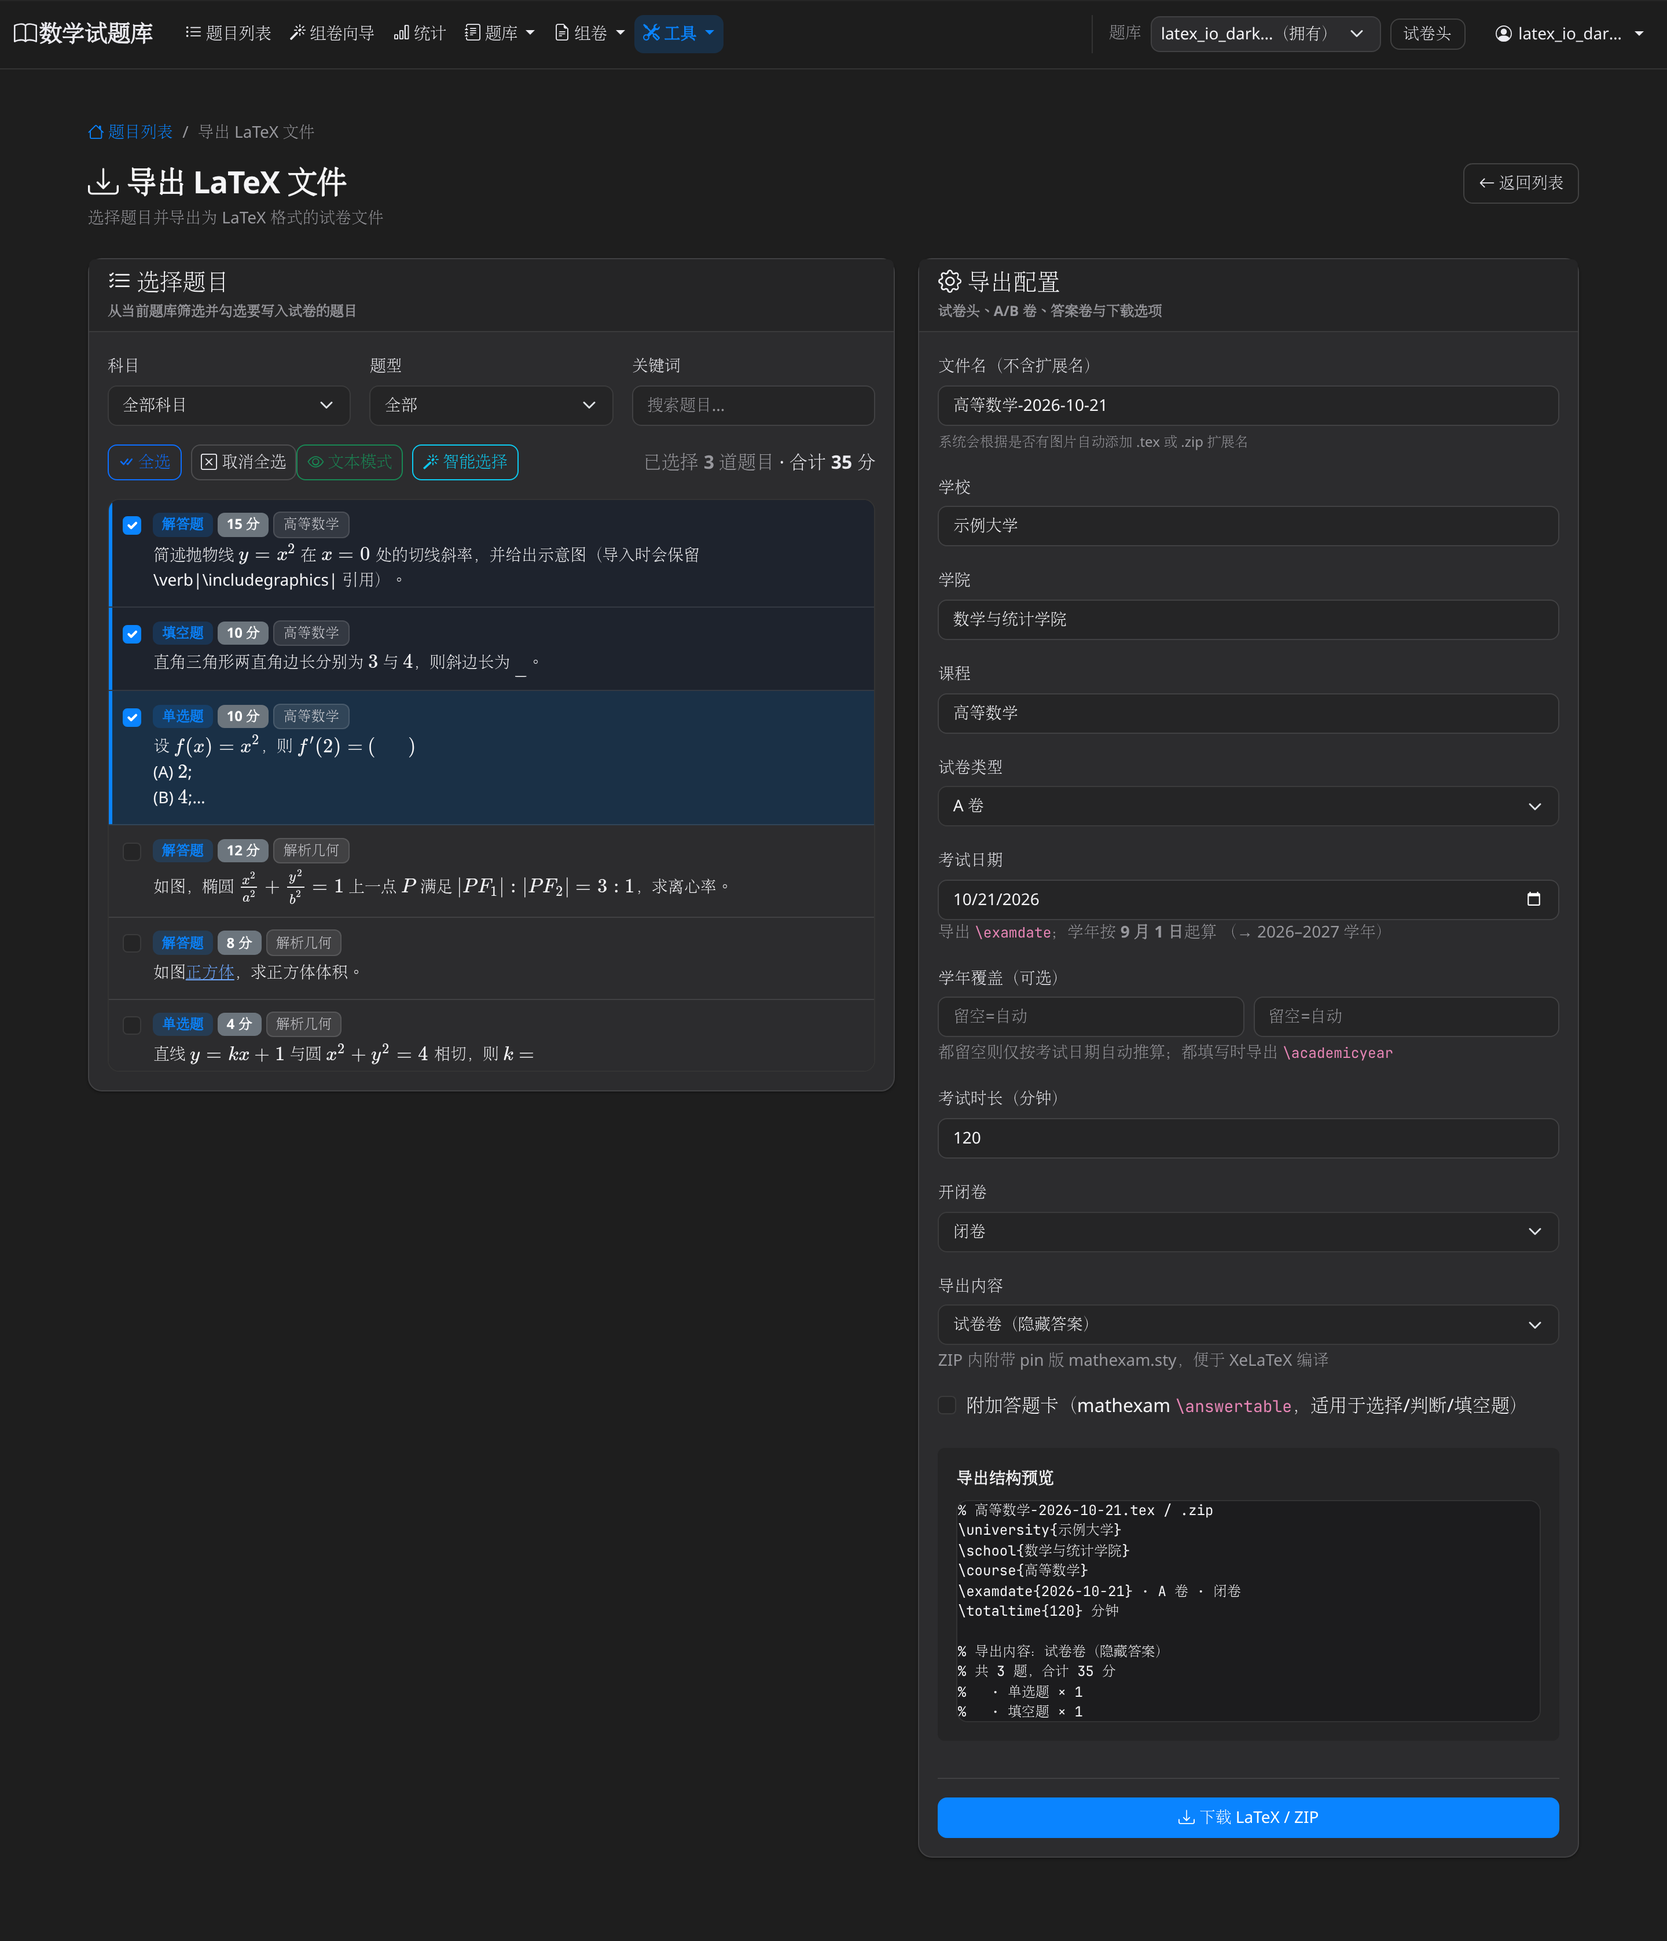
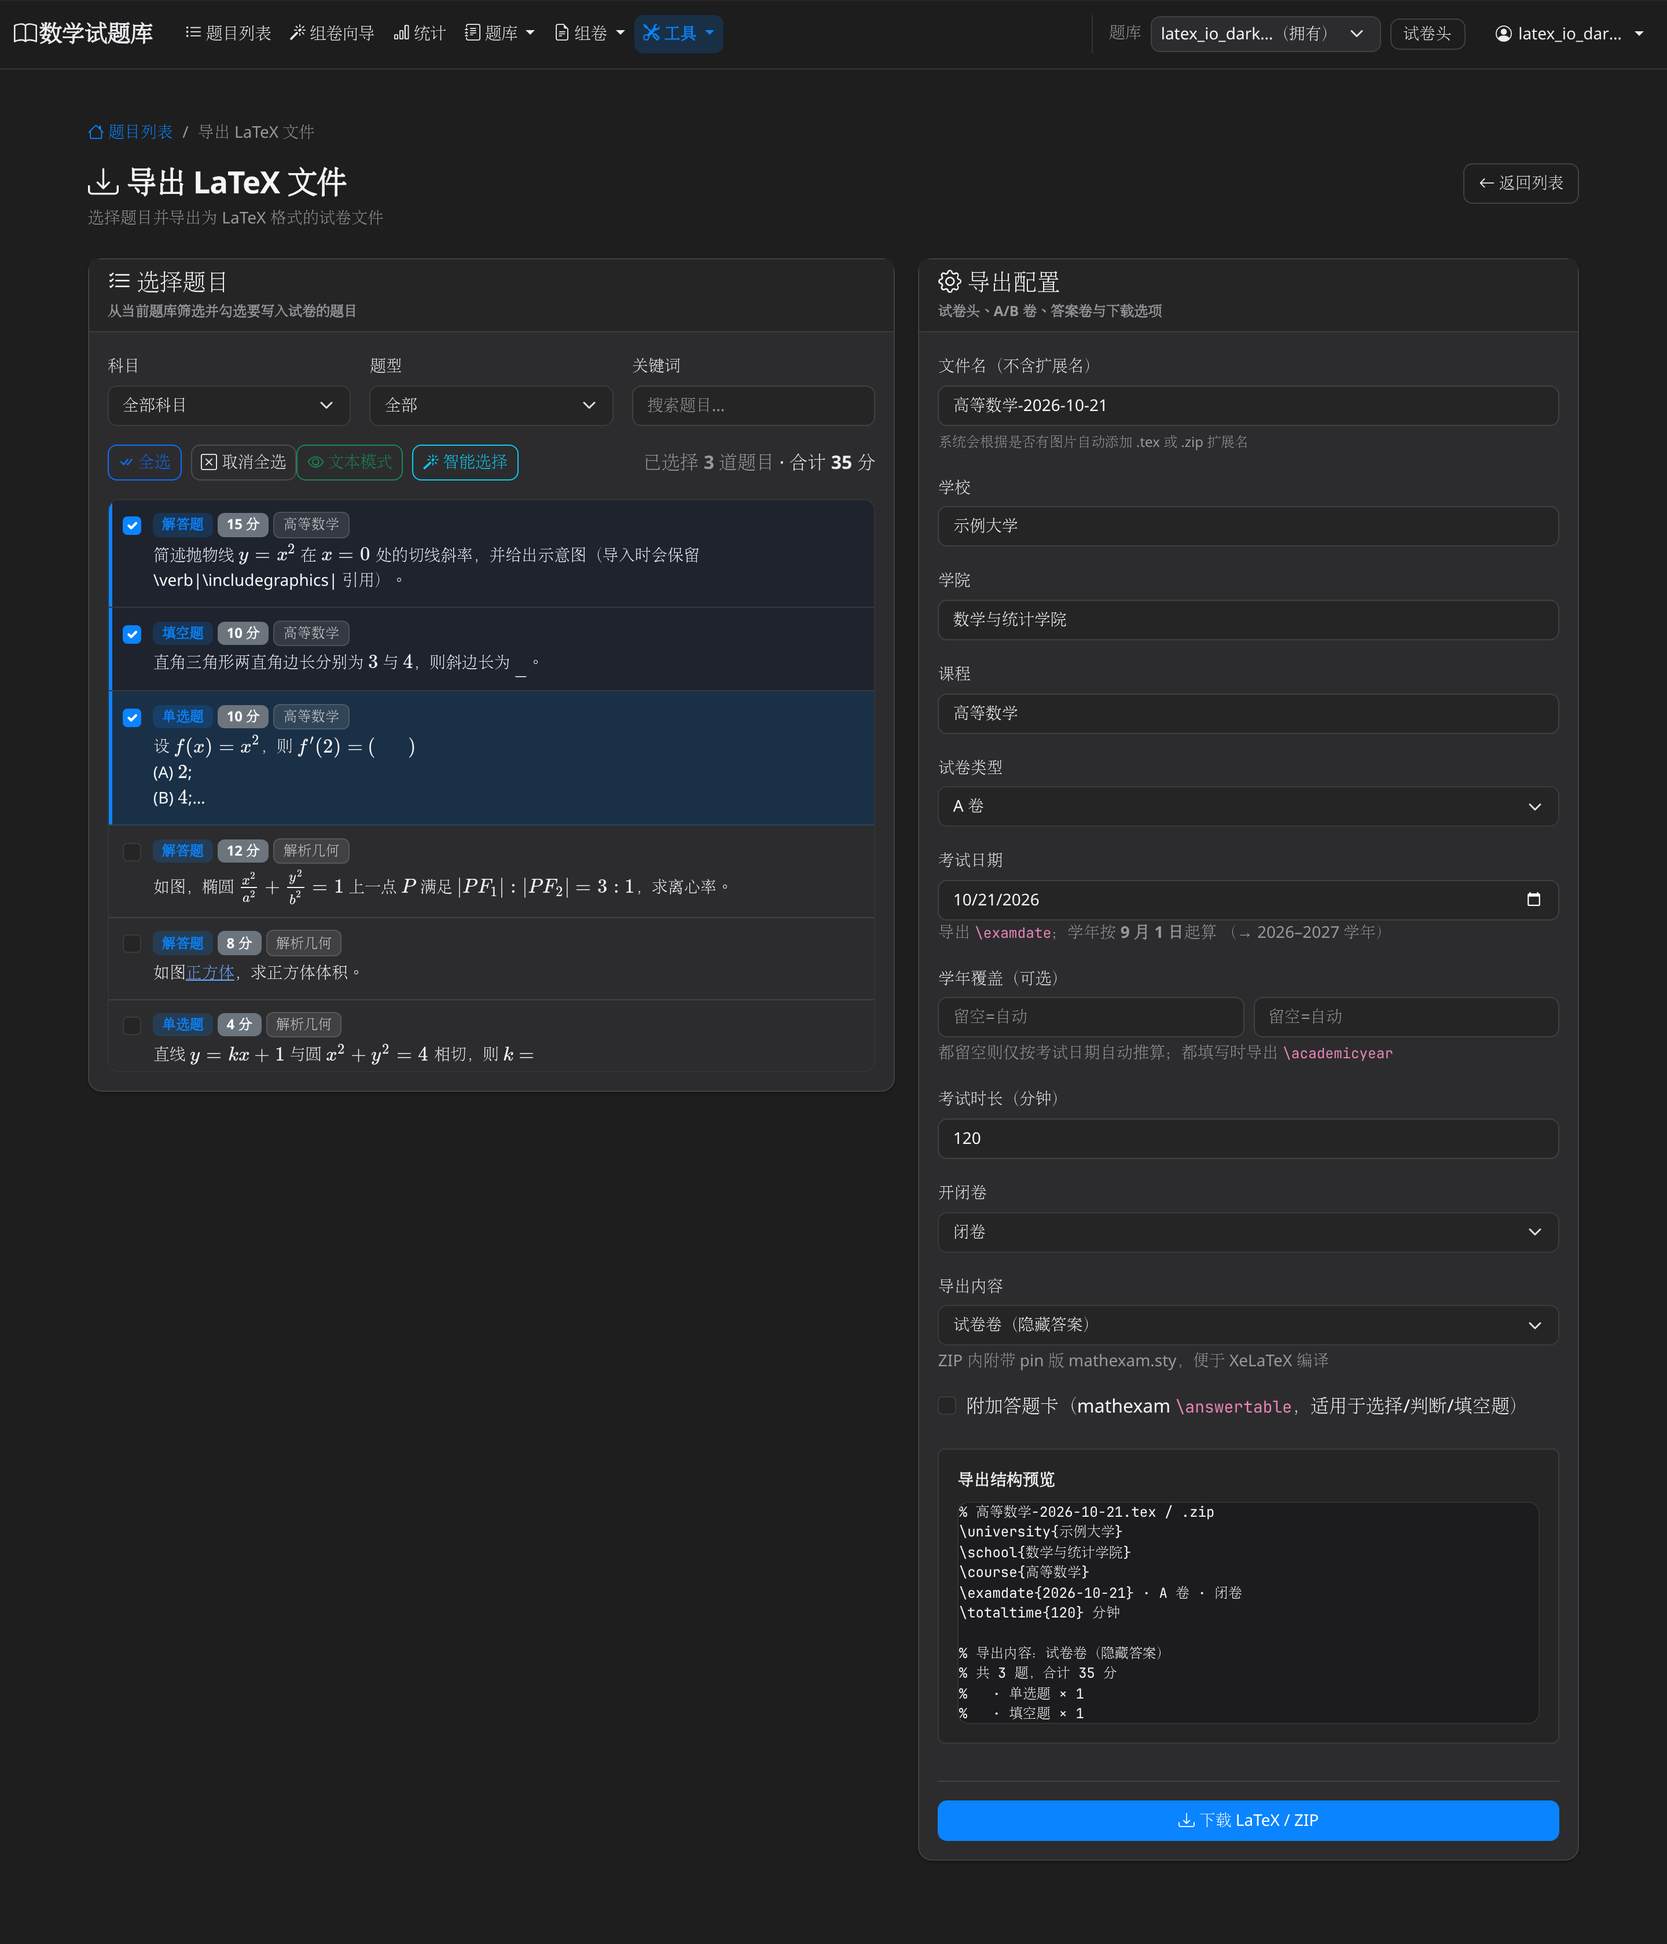
fix(ui): LaTeX import preview contrast, action bar layout, step states
Use preview-surface and callout tokens for import preview bodies; move
action bar below preview/result so it no longer covers options. Add step
checkmarks, latex-io-contrast e2e, and regenerate after screenshots.

diff --git a/frontend/src/components/LatexImport.vue b/frontend/src/components/LatexImport.vue
@@ -31,7 +31,7 @@
       <div class="row">
         <div class="col-lg-8 mx-auto">
           <div class="card latex-io-card">
-            <div class="card-body">
+            <div class="card-body latex-io-card-body">
               <div v-if="formError" class="alert alert-danger" role="alert" data-testid="latex-import-form-error">
                 {{ formError }}
               </div>
@@ -165,50 +165,6 @@
                     </div>
                   </div>
                 </details>
-              </div>
-
-              <!-- 操作按钮 -->
-              <div v-show="importFlowStep <= 2" class="latex-io-action-bar" data-testid="latex-import-action-bar">
-                <button
-                  type="button"
-                  class="btn btn-info"
-                  @click="previewFile"
-                  :disabled="!selectedTexFiles.length || previewing || importing"
-                >
-                  <span v-if="previewing" class="spinner-border spinner-border-sm me-2"></span>
-                  <i v-else class="bi bi-eye"></i>
-                  {{ previewing ? '预览中...' : '预览题目' }}
-                </button>
-                <button
-                  type="button"
-                  class="btn btn-primary"
-                  @click="importFile"
-                  :disabled="!selectedTexFiles.length || importing || previewing"
-                  v-if="!previewData"
-                >
-                  <span v-if="importing" class="spinner-border spinner-border-sm me-2"></span>
-                  <i v-else class="bi bi-upload"></i>
-                  {{ importing ? '导入中...' : '直接导入' }}
-                </button>
-                <button
-                  v-if="previewData"
-                  type="button"
-                  class="btn btn-success"
-                  @click="confirmImport"
-                  :disabled="importing || !(previewData?.partialImportAllowed || previewData?.success)"
-                >
-                  <span v-if="importing" class="spinner-border spinner-border-sm me-2"></span>
-                  <i v-else class="bi bi-check-circle"></i>
-                  {{ importing ? '导入中...' : '确认导入' }}
-                </button>
-                <button
-                  type="button"
-                  class="btn btn-outline-secondary"
-                  @click="resetForm"
-                  :disabled="importing || previewing"
-                >
-                  <i class="bi bi-arrow-clockwise"></i> 重置
-                </button>
               </div>
 
               <!-- 预览区域 -->
@@ -359,7 +315,8 @@
                         <div v-if="previewMode" class="question-preview-content mathexam-preview">
                           <div 
                             v-html="processQuestionTextToHTML(question.questionText, question.originalLaTeX, questionPreviewOpts(question))"
-                            class="question-text-content mb-2 mathexam-question-body"
+                            class="question-text-content preview-surface mathexam-question-body mb-2"
+                            data-testid="latex-import-preview-question-body"
                           ></div>
                           <!-- 选项（如果是选择题） -->
                           <div v-if="question.options && Object.keys(question.options).length > 0 && !hasAbcdInOriginal(question)" class="question-options mb-2">
@@ -370,11 +327,18 @@
                             </ChoiceOptionsList>
                           </div>
                           <!-- 答案 -->
-                          <div class="question-answer mb-0" v-if="showAnswerBlock(question)">
+                          <div
+                            class="question-answer mathexam-callout-answer mb-0 mt-2"
+                            v-if="showAnswerBlock(question)"
+                            data-testid="latex-import-preview-answer"
+                          >
                             <strong>答案：</strong>
                             <div v-html="processAnswerTextToHTML(answerForDisplay(question))"></div>
                           </div>
-                          <div v-if="showSolutionBlock(question)" class="question-solution mb-0 mt-2">
+                          <div
+                            v-if="showSolutionBlock(question)"
+                            class="question-solution mathexam-callout-solution mb-0 mt-2"
+                          >
                             <strong>解答：</strong>
                             <div v-html="processAnswerTextToHTML(question.solution)"></div>
                           </div>
@@ -585,6 +549,49 @@
                     </button>
                   </div>
                 </div>
+              </div>
+
+              <div v-show="importFlowStep <= 2" class="latex-io-action-bar" data-testid="latex-import-action-bar">
+                <button
+                  type="button"
+                  class="btn btn-info"
+                  @click="previewFile"
+                  :disabled="!selectedTexFiles.length || previewing || importing"
+                >
+                  <span v-if="previewing" class="spinner-border spinner-border-sm me-2"></span>
+                  <i v-else class="bi bi-eye"></i>
+                  {{ previewing ? '预览中...' : '预览题目' }}
+                </button>
+                <button
+                  type="button"
+                  class="btn btn-primary"
+                  @click="importFile"
+                  :disabled="!selectedTexFiles.length || importing || previewing"
+                  v-if="!previewData"
+                >
+                  <span v-if="importing" class="spinner-border spinner-border-sm me-2"></span>
+                  <i v-else class="bi bi-upload"></i>
+                  {{ importing ? '导入中...' : '直接导入' }}
+                </button>
+                <button
+                  v-if="previewData"
+                  type="button"
+                  class="btn btn-success"
+                  @click="confirmImport"
+                  :disabled="importing || !(previewData?.partialImportAllowed || previewData?.success)"
+                >
+                  <span v-if="importing" class="spinner-border spinner-border-sm me-2"></span>
+                  <i v-else class="bi bi-check-circle"></i>
+                  {{ importing ? '导入中...' : '确认导入' }}
+                </button>
+                <button
+                  type="button"
+                  class="btn btn-outline-secondary"
+                  @click="resetForm"
+                  :disabled="importing || previewing"
+                >
+                  <i class="bi bi-arrow-clockwise"></i> 重置
+                </button>
               </div>
             </div>
           </div>
@@ -1208,11 +1215,9 @@ export default {
   vertical-align: baseline;
 }
 
-.preview-area .question-text-content {
+.preview-area .mathexam-question-body.preview-surface {
   padding: 0.75rem 1rem;
-  background: #fafbff;
-  border-radius: 8px;
-  border: 1px solid #e8ecf4;
+  border-radius: var(--radius-md);
 }
 </style>
 

diff --git a/e2e/tests/latex-io-contrast.spec.js b/e2e/tests/latex-io-contrast.spec.js
@@ -1,0 +1,62 @@
+/**
+ * Dark-mode contrast on LaTeX import preview + export list (runs in CI e2e-smoke).
+ */
+const { test, expect } = require('@playwright/test');
+const path = require('path');
+const fs = require('fs');
+const { assertMinContrastIn } = require('../helpers/contrastAssert');
+const { registerAndLoginSession, appOrigin } = require('../helpers/screenshotAuth');
+const { seedViaPageRequest } = require('../helpers/seedUiV2ScreenshotRequest');
+
+const mathexamTemplateZip = path.join(
+  __dirname,
+  '../../frontend/public/downloads/mathexam-v2.3.3.zip',
+);
+const apiBase = process.env.PLAYWRIGHT_API_URL || 'http://127.0.0.1:3000/api';
+
+test.describe('LaTeX IO dark contrast', () => {
+  test.use({ colorScheme: 'dark' });
+
+  test.beforeEach(async ({ page }) => {
+    await page.addInitScript(() => localStorage.setItem('mathexamColorScheme', 'dark'));
+  });
+
+  test('import preview question body and export rows meet contrast', async ({ page }) => {
+    test.setTimeout(360000);
+    page.on('dialog', (d) => d.accept());
+
+    const uid = `lio_contrast_${Date.now()}`;
+    const session = await registerAndLoginSession(page, {
+      uid,
+      password: 'E2EPass123!',
+      email: `${uid}@example.com`,
+    });
+    const bankId = session.bankId;
+    await seedViaPageRequest(page, bankId);
+
+    await page.goto(`${appOrigin}/latex-import`, { waitUntil: 'domcontentloaded' });
+    expect(fs.existsSync(mathexamTemplateZip)).toBeTruthy();
+    await page.locator('#fileInput').setInputFiles(mathexamTemplateZip);
+    await page.getByRole('button', { name: '预览题目' }).click({ timeout: 120000 });
+    await expect(page.getByTestId('latex-import-preview-panel')).toBeVisible({ timeout: 180000 });
+
+    const body = page.getByTestId('latex-import-preview-question-body').first();
+    await expect(body).toBeVisible();
+    await assertMinContrastIn(page, '[data-testid="latex-import-preview-question-body"]', 4.5);
+
+    await page.goto(`${appOrigin}/latex-export`, { waitUntil: 'domcontentloaded' });
+    await expect(page.getByTestId('latex-export-selection-summary')).toBeVisible({ timeout: 30000 });
+    const listRes = await page.request.get(`${apiBase}/questions/list?limit=2`, {
+      headers: bankId ? { 'X-Bank-Id': bankId } : {},
+    });
+    if (listRes.ok()) {
+      const payload = await listRes.json();
+      const rows = Array.isArray(payload) ? payload : payload.questions || [];
+      const id = rows[0]?._id;
+      if (id) {
+        await page.locator('.export-question-row').first().click();
+      }
+    }
+    await assertMinContrastIn(page, '.export-question-row__preview', 4.5);
+  });
+});

diff --git a/frontend/src/assets/macos-components.css b/frontend/src/assets/macos-components.css
@@ -229,6 +229,36 @@ pre,
   color: var(--text-primary) !important;
 }
 
+.preview-surface,
+.bg-light.preview-surface {
+  background: var(--preview-surface-bg) !important;
+  color: var(--text-primary);
+  border: 1px solid var(--border-subtle);
+}
+
+.mathexam-callout-answer {
+  background: var(--callout-answer-bg);
+  border-left: 3px solid var(--callout-answer-border);
+  border-radius: var(--radius-md);
+  padding: 0.65rem 0.85rem;
+  color: var(--text-primary);
+}
+
+.mathexam-callout-solution {
+  background: var(--callout-solution-bg);
+  border-left: 3px solid var(--callout-solution-border);
+  border-radius: var(--radius-md);
+  padding: 0.65rem 0.85rem;
+  color: var(--text-primary);
+}
+
+[data-bs-theme='dark'] .preview-surface .mjx-chtml,
+[data-bs-theme='dark'] .preview-surface .MathJax,
+[data-bs-theme='dark'] .mathexam-question-body .mjx-chtml,
+[data-bs-theme='dark'] .mathexam-question-body .MathJax {
+  color: var(--text-primary) !important;
+}
+
 .step-score-badge {
   color: var(--text-secondary);
   background: var(--surface-muted);

diff --git a/frontend/src/assets/latex-io.css b/frontend/src/assets/latex-io.css
@@ -22,6 +22,13 @@
 
 .latex-io-steps__item--active {
   color: var(--color-accent);
+  font-weight: 600;
+}
+
+.latex-io-steps__item--active .latex-io-steps__label {
+  text-decoration: underline;
+  text-decoration-color: var(--color-primary-soft);
+  text-underline-offset: 0.2rem;
 }
 
 .latex-io-steps__item--done {
@@ -53,17 +60,30 @@
   color: var(--success);
 }
 
+.latex-io-steps__item--done .latex-io-steps__badge .bi-check-lg {
+  font-size: 0.85rem;
+  line-height: 1;
+}
+
 .latex-io-action-bar {
-  position: sticky;
-  bottom: 0;
-  z-index: 6;
   display: flex;
   flex-wrap: wrap;
   gap: 0.5rem;
-  padding: 0.85rem 0 0.25rem;
-  margin-top: 1rem;
-  background: linear-gradient(180deg, transparent 0%, var(--surface-card) 28%);
+  padding: 1rem 0 0.25rem;
+  margin-top: 1.25rem;
   border-top: 1px solid var(--border-subtle);
+}
+
+.latex-io-card-body {
+  padding-bottom: 0.5rem;
+}
+
+.latex-io-import-options {
+  margin-bottom: 0;
+}
+
+.latex-io-advanced:not([open]) {
+  padding-bottom: 0.35rem;
 }
 
 .latex-io-panel-header {

diff --git a/e2e/tests/latex-io-screenshots.spec.js b/e2e/tests/latex-io-screenshots.spec.js
@@ -26,6 +26,7 @@ const {
 } = require('../helpers/screenshotAuth');
 const { seedViaPageRequest } = require('../helpers/seedUiV2ScreenshotRequest');
 const { assertPageReady, assertNoHorizontalOverflow } = require('../helpers/screenshotAssert');
+const { assertMinContrastIn } = require('../helpers/contrastAssert');
 
 function mathexamZipForImport() {
   if (!fs.existsSync(mathexamTemplateZip)) {
@@ -79,6 +80,9 @@ test.describe('LaTeX IO screenshots', () => {
     await page.locator('#fileInput').setInputFiles(zipPath);
     await page.getByRole('button', { name: '预览题目' }).click({ timeout: 120000 });
     await expect(page.getByTestId('latex-import-preview-panel')).toBeVisible({ timeout: 180000 });
+    if (scheme === 'dark') {
+      await assertMinContrastIn(page, '[data-testid="latex-import-preview-question-body"]', 4.5);
+    }
     await snap(page, 'latex-import-step-2');
 
     await page.getByRole('button', { name: '确认导入' }).click({ timeout: 120000 });

diff --git a/frontend/src/components/ui/ImportFlowSteps.vue b/frontend/src/components/ui/ImportFlowSteps.vue
@@ -11,7 +11,10 @@
         }"
         :data-step="item.id"
       >
-        <span class="latex-io-steps__badge">{{ item.id }}</span>
+        <span class="latex-io-steps__badge" :aria-label="step > item.id ? `步骤 ${item.id} 已完成` : `步骤 ${item.id}`">
+          <i v-if="step > item.id" class="bi bi-check-lg" aria-hidden="true"></i>
+          <span v-else>{{ item.id }}</span>
+        </span>
         <span class="latex-io-steps__label">{{ item.label }}</span>
       </li>
     </ol>

diff --git a/frontend/src/assets/theme-dark.css b/frontend/src/assets/theme-dark.css
@@ -63,6 +63,12 @@
   --preview-surface-bg: var(--surface-muted);
 
   --navbar-blur: saturate(180%) blur(20px);
+
+  --preview-surface-bg: var(--surface-muted);
+  --callout-answer-bg: rgba(10, 132, 255, 0.18);
+  --callout-answer-border: #0a84ff;
+  --callout-solution-bg: rgba(48, 209, 88, 0.16);
+  --callout-solution-border: #30d158;
 }
 
 [data-bs-theme='dark'] .app-navbar.app-navbar--mac {
